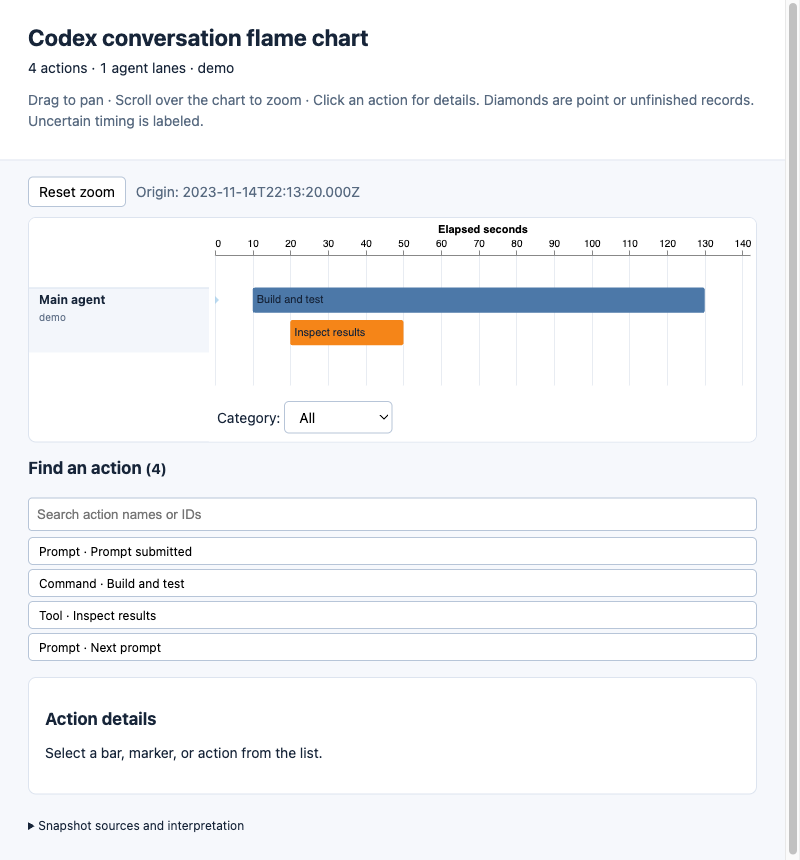
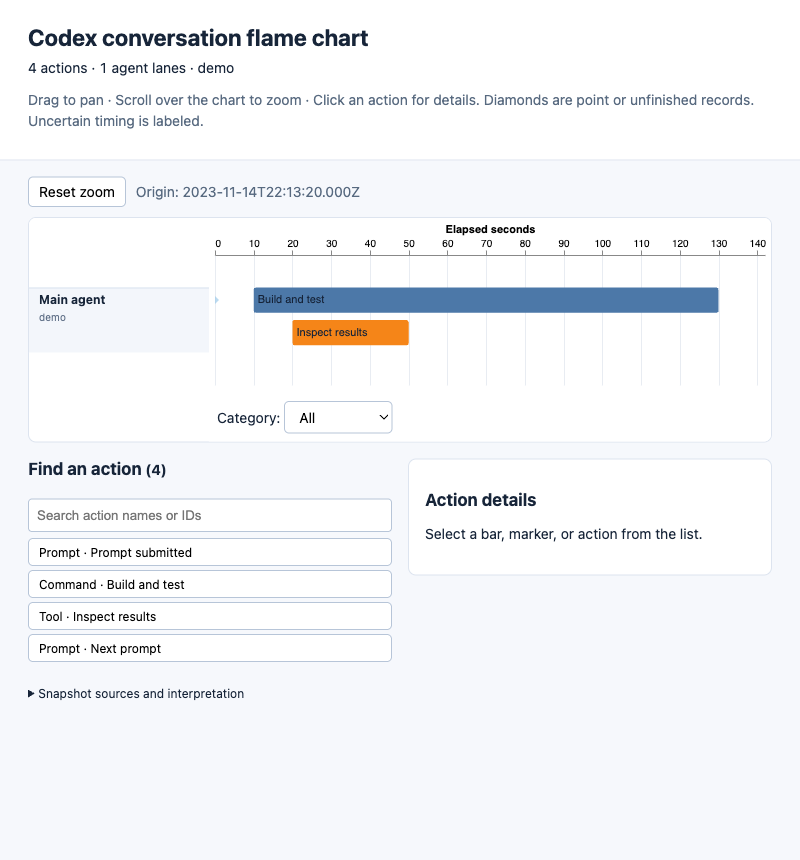
fix(codex): show action search and details in columns below chart

diff --git a/scripts/codex_trace/viewer.html b/scripts/codex_trace/viewer.html
@@ -4,14 +4,14 @@
 <meta charset="utf-8"><meta name="viewport" content="width=device-width, initial-scale=1">
 <title>Codex conversation flame chart</title>
 <style>
-:root{font-family:system-ui,sans-serif;color:#172539;background:#f6f8fc;font-size:14px}body{margin:0}header{padding:24px 28px 14px;background:white;border-bottom:1px solid #dde4ef}h1{font-size:23px;margin:0 0 8px}h2{font-size:17px}p{line-height:1.5}.muted{color:#586a80}#summary{font-variant-numeric:tabular-nums}button,select{font:inherit;padding:6px 10px;border:1px solid #b7c5d8;border-radius:5px;background:white;cursor:pointer}button:hover{background:#edf3fc}#notices{margin:16px 28px;padding:10px 16px;background:#fff5dc;border:1px solid #eac974;border-radius:6px}#notices:empty{display:none}main{display:grid;grid-template-columns:minmax(0,1fr);gap:16px;padding:16px 28px}#timeline-panel{min-width:0}#scroll{overflow:auto;max-height:72vh;background:white;border:1px solid #dde4ef;border-radius:8px}#timeline{display:flex;min-width:520px;align-items:flex-start}#chart{flex:1;min-width:0}#chart.vega-embed{padding-right:0}#lanes{position:sticky;left:0;z-index:2;flex:0 0 180px;background:white;height:100%;font-size:12px}#lane-content{position:relative}.lane{position:absolute;left:0;right:0;border-top:1px solid #d9e2ef;padding:4px 10px;background:#f3f6fb;overflow:hidden;box-sizing:border-box}.lane strong{display:block;word-break:break-word}.lane small{display:block;margin-top:5px;color:#63738a}.vega-bindings{position:sticky;bottom:0;background:white;padding:8px}#details{border:1px solid #dde4ef;border-radius:8px;background:white;padding:16px;max-height:76vh;overflow:auto;overflow-wrap:anywhere}pre{white-space:pre-wrap;overflow-wrap:anywhere;font:12px/1.5 ui-monospace,monospace;background:#f5f7fa;padding:10px;border-radius:4px}details{margin:8px 0}summary{cursor:pointer}#actions{margin-top:15px}#action-list{max-height:210px;overflow:auto;display:grid;gap:4px}#action-list button{text-align:left;font-size:12px}#search{width:100%;box-sizing:border-box;padding:8px;margin:6px 0;border:1px solid #b7c5d8;border-radius:4px}#error{color:#a51f32}footer{padding:0 28px 22px;font-size:12px}#controls{display:flex;gap:10px;align-items:center;flex-wrap:wrap;margin-bottom:10px}
+:root{font-family:system-ui,sans-serif;color:#172539;background:#f6f8fc;font-size:14px}body{margin:0}header{padding:24px 28px 14px;background:white;border-bottom:1px solid #dde4ef}h1{font-size:23px;margin:0 0 8px}h2{font-size:17px}p{line-height:1.5}.muted{color:#586a80}#summary{font-variant-numeric:tabular-nums}button,select{font:inherit;padding:6px 10px;border:1px solid #b7c5d8;border-radius:5px;background:white;cursor:pointer}button:hover{background:#edf3fc}#notices{margin:16px 28px;padding:10px 16px;background:#fff5dc;border:1px solid #eac974;border-radius:6px}#notices:empty{display:none}main{display:grid;grid-template-columns:repeat(2,minmax(0,1fr));align-items:start;gap:16px;padding:16px 28px}#timeline-panel{min-width:0;grid-column:1 / -1}#scroll{overflow:auto;max-height:72vh;background:white;border:1px solid #dde4ef;border-radius:8px}#timeline{display:flex;min-width:520px;align-items:flex-start}#chart{flex:1;min-width:0}#chart.vega-embed{padding-right:0}#lanes{position:sticky;left:0;z-index:2;flex:0 0 180px;background:white;height:100%;font-size:12px}#lane-content{position:relative}.lane{position:absolute;left:0;right:0;border-top:1px solid #d9e2ef;padding:4px 10px;background:#f3f6fb;overflow:hidden;box-sizing:border-box}.lane strong{display:block;word-break:break-word}.lane small{display:block;margin-top:5px;color:#63738a}.vega-bindings{position:sticky;bottom:0;background:white;padding:8px}#details{border:1px solid #dde4ef;border-radius:8px;background:white;padding:16px;max-height:76vh;overflow:auto;overflow-wrap:anywhere}pre{white-space:pre-wrap;overflow-wrap:anywhere;font:12px/1.5 ui-monospace,monospace;background:#f5f7fa;padding:10px;border-radius:4px}details{margin:8px 0}summary{cursor:pointer}#actions{min-width:0}#actions h2{margin-top:0}#action-list{max-height:210px;overflow:auto;display:grid;gap:4px}#action-list button{text-align:left;font-size:12px}#search{width:100%;box-sizing:border-box;padding:8px;margin:6px 0;border:1px solid #b7c5d8;border-radius:4px}#error{color:#a51f32}footer{padding:0 28px 22px;font-size:12px}#controls{display:flex;gap:10px;align-items:center;flex-wrap:wrap;margin-bottom:10px}
 </style>
 <script>@@BUNDLE@@</script>
 </head>
 <body>
 <header><h1>Codex conversation flame chart</h1><div id="summary"></div><p class="muted">Drag to pan · Scroll over the chart to zoom · Click an action for details. Diamonds are point or unfinished records. Uncertain timing is labeled.</p></header>
 <section id="notices"></section>
-<main><section id="timeline-panel"><div id="controls"><button id="reset">Reset zoom</button><span id="origin" class="muted"></span></div><div id="error" role="alert"></div><div id="scroll"><div id="timeline"><div id="lanes"><div id="lane-content"></div></div><div id="chart"></div></div></div><section id="actions"><h2>Find an action <small id="action-count"></small></h2><input id="search" type="search" placeholder="Search action names or IDs" aria-label="Search actions"><div id="action-list"></div><button id="more" hidden>Show more</button></section></section><aside id="details"><h2>Action details</h2><p>Select a bar, marker, or action from the list.</p></aside></main>
+<main><section id="timeline-panel"><div id="controls"><button id="reset">Reset zoom</button><span id="origin" class="muted"></span></div><div id="error" role="alert"></div><div id="scroll"><div id="timeline"><div id="lanes"><div id="lane-content"></div></div><div id="chart"></div></div></div></section><section id="actions"><h2>Find an action <small id="action-count"></small></h2><input id="search" type="search" placeholder="Search action names or IDs" aria-label="Search actions"><div id="action-list"></div><button id="more" hidden>Show more</button></section><aside id="details"><h2>Action details</h2><p>Select a bar, marker, or action from the list.</p></aside></main>
 <footer><details><summary>Snapshot sources and interpretation</summary><p>Local records were read without modifying them. Each source has its own read boundary; this is not a globally atomic snapshot. Observation intervals show record arrival times, not measured execution. Unrecorded subprocesses and reasoning cannot be reconstructed.</p><pre id="sources"></pre></details></footer>
 <script type="application/json" id="report-data">@@REPORT@@</script>
 <script type="application/json" id="chart-spec">@@SPEC@@</script>
